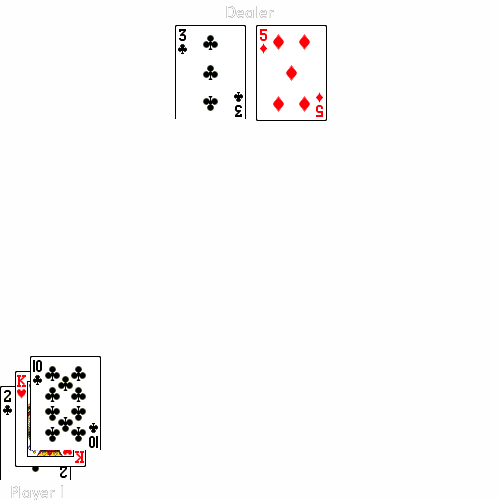
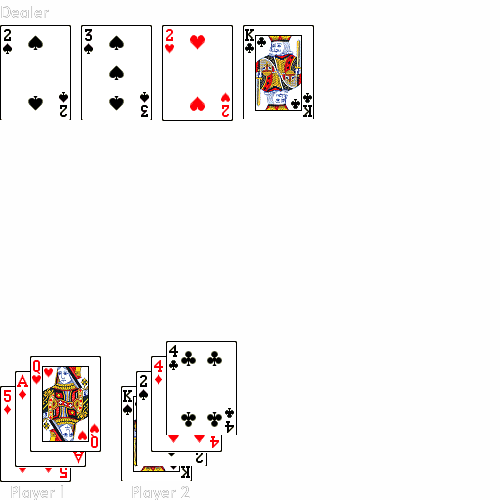
Fixed some issues in blackjack.py and updated main

diff --git a/blackjack.py b/blackjack.py
@@ -1,4 +1,3 @@
-
 import time
 import random
 import discord
@@ -66,6 +65,9 @@ game_controls = {
     "doubledown" : "⏬",
     "quit"       : "⏹",
     "playagain"  : "🔁",
+    "join"       : "▶",
+    "continue"   : "✅",
+    "checkbank"  : "🏧",
     25           : "⚪",
     50           : "🔵",
     100          : "🟤",
@@ -89,6 +91,7 @@ class Player:
         self.bStay = False
         self.val = 0
         self.bet = 0
+        self.userid = ""
 
 
     def randomCard(self):
@@ -110,6 +113,7 @@ class Player:
         for card in hand:
             if "Ace" in card:
                 aces += 1
+                self.val += 11
             elif "2" in card:
                 self.val += 2
             elif "3" in card:
@@ -129,12 +133,8 @@ class Player:
             else:
                 self.val += 10
         
-        while aces > 0:
-            if self.val <= 10:
-                self.val += 11
-            else:
-                self.val += 1
-            
+        while aces > 0 and self.val > 21:
+            self.val -= 10
             aces -= 1
 
         if self.val > 21:
@@ -142,10 +142,48 @@ class Player:
         elif self.val == 21:
             self.bBlkJak = True
 
-async def startGame(bot, ctx):
+async def startGame(bot, ctx, arg):
     im = Image.new('RGBA',(500,500), (0,0,0,1))
-    p1 = Player()
+    p  = []
+    i = int(arg)
+
+    while i > 0:
+        p.append(Player())
+        i -=1
+    
+    if p == []:
+        p.append(Player())
+
+    if len(p) != 1:
+        msg = await ctx.send("If you would like to join the game press the ▶ button (exculding " + str(ctx.author.name) + ")")
+        await msg.add_reaction(game_controls["join"])
+        await msg.add_reaction(game_controls["continue"])
+        p[0].userid = str(ctx.author.id)
+
+        i = 1
+        while p[len(p) - 1].userid  == "":
+            reaction, user = await bot.wait_for('reaction_add', timeout=60.0)
+
+            if reaction.emoji == game_controls["join"] and user.bot == False and str(user.id) != p[0].userid:
+                p[i].userid = str(user.id)
+                i += 1
+            elif reaction.emoji == game_controls["continue"] and user.bot == False:
+                rm = []
+                for player in p:
+                    if player.userid == "":
+                        rm.append(p.index(player))
+
+                rm.reverse()
+
+                for index in rm:
+                    del p[index]
+
+                break
+
     dealer = Player()
+
+    with open("users.json", "r") as f:
+        users = json.load(f)
 
     msg = await ctx.send("""To place a bet refer to this table:
                     \n⚪ = $25
@@ -158,64 +196,108 @@ async def startGame(bot, ctx):
                     \n🔴 = $5000
                     \n⚫ = $10000
                     \n⬜ = 50% of bank
-                    \n⬛ = 100% of bank\n\n"""
-                   )
+                    \n⬛ = 100% of bank
+                    \n🏧   to check bank\n\n""")
+
+    
 
     for key in game_controls:
         if (type(key) == float or type(key) == int):
             await msg.add_reaction(game_controls[key])
+
+    await msg.add_reaction(game_controls["checkbank"])
     
     while True:
         reaction, user = await bot.wait_for('reaction_add', timeout=60.0)
-        if (user.bot == False): 
-            bet = get_key(reaction.emoji)
-            break
+        i = 0
+        if reaction.emoji == "🏧" and user.bot == False:
+            await ctx.send(user.name + "'s Current Bank: $ " + str(users[str(user.id)]["money"]))
+        elif (user.bot == False): 
+            for player in p:
+                if str(user.id) == player.userid:
+                    player.bet = get_key(reaction.emoji)
+                    player.bet = place_bet(player.bet, user)
+            
+            for player in p:
+                if player.bet != 0:
+                    i += 1
+
+            if i >= len(p):
+                break
     
-    bet = place_bet(bet, user)
-    firstHand(p1, dealer, im)
+    hidden_card = firstHand(p, dealer, im)
 
     msg = await ctx.send(file=discord.File('Content/gamestate.png'))
     await printControls(msg)
 
-    while (p1.bBlkJak == False and p1.bBust == False and p1.bStay == False):
-        try:
-            reaction, user = await bot.wait_for('reaction_add', timeout=60.0)
 
-            if reaction.emoji == game_controls["hit"] and user.bot == False:
-                hit(p1, dealer, "p1")
-                await msg.delete()
-                msg = await ctx.send(file=discord.File('Content/gamestate.png'))
-                await printControls(msg)
-            elif reaction.emoji == game_controls["stay"] and user.bot == False:
-                stay(p1)
-            elif reaction.emoji == game_controls["doubledown"] and user.bot == False:
-                place_bet(bet, user)
-                hit(p1, dealer, "p1")
-                bet += bet
-                stay(p1)
-        except:
-            stay(p1)
+    #Main black jack player loop, allows the player to hit, stay or double down until they bust
+    for player in p:
+        while (p1.bBlkJak == False and player.bBust == False and player.bStay == False):
+            try:
+                await ctx.send("Player " + str(p.index(player) + 1) +  " Turn")
+                reaction, user = await bot.wait_for('reaction_add', timeout=60.0)
 
-    while(dealer.bBlkJak == False and dealer.bBust == False and dealer.val < 17 and p1.bBust != True):
-        hit(p1, dealer, "dealer")
+                if user.bot == False and str(user.id) == player.userid:
+                    if reaction.emoji == game_controls["hit"]:
+                        hit(player, dealer, p.index(player))
+                        await msg.delete()
+                        msg = await ctx.send(file=discord.File('Content/gamestate.png'))
+                        await printControls(msg)
+                    elif reaction.emoji == game_controls["stay"]:
+                        stay(player)
+                    elif reaction.emoji == game_controls["doubledown"]:
+                        temp = player.bet
+                        player.bet = place_bet(player.bet, user)
+                        hit(player, dealer, p.index(player))
+                        await msg.delete()
+                        msg = await ctx.send(file=discord.File('Content/gamestate.png'))
+                        player.bet += temp + player.bet
+                        stay(player)
+                elif user.bot == False and str(user.id) != player.userid:
+                     await ctx.send("You are not player " + str(p.index(player) + 1))
+            except:
+                stay(player)
+    
+    #Reveal hidden card and place it over hidden card
+    await msg.delete()
+    im = Image.open('Content/gamestate.png')
+    im2 = Image.open('Content/Cards/' + hidden_card)
+    Y = 25
+    X = 81
+    im.paste(im2.copy(), (X, Y))
+    im.save("Content/gamestate.png")
+    im.close()
+    im2.close()
+    msg = await ctx.send(file=discord.File('Content/gamestate.png'))
+    time.sleep(3)
+
+    #Main dealer loop, the dealer draws to 17 minimum or until they bust
+    while(dealer.bBlkJak == False and dealer.bBust == False and dealer.val < 17 ):
+        hit(p[0], dealer, "dealer")
         await msg.delete()
         msg = await ctx.send(file=discord.File('Content/gamestate.png'))
         time.sleep(5)
 
-    if ((p1.bBlkJak == True and dealer.bBlkJak != False) or 
-        (p1.val > dealer.val and p1.bBust == False)):
-        await winnings(bet, user, ctx)
-    elif p1.val == dealer.val:
-        bet /= 2
-        await winnings(bet, user, ctx)
-    else:
-        bet = 0
-        await winnings(bet, user, ctx)
+
+    #determine whether or not you won your bet and what they pay out will be
+    for player in p:
+        if ((player.bBlkJak == True and dealer.bBlkJak != False) or 
+            (player.val > dealer.val and player.bBust == False) or (dealer.bBust == True and player.bBust == False)):
+            await winnings(player.bet, user, ctx)
+        elif player.val == dealer.val:
+            player.bet /= 2
+            await winnings(player.bet, user, ctx)
+        else:
+            player.bet = 0
+            await winnings(player.bet, user, ctx)
     
 
 
     await msg.add_reaction(game_controls["playagain"])
     await msg.add_reaction(game_controls["quit"])
+
+    p[0].cardsDrawn = [];
 
     try:
         while True:
@@ -229,17 +311,17 @@ async def startGame(bot, ctx):
     except:
         await ctx.send("Thanks for Playing")
 
-def hit(p1, dealer, who):
+def hit(p, dealer, who):
     im = Image.open('Content/gamestate.png')
 
-    if who == "p1":
-        p1.randomCard()
-        adjust = (len(p1.hand) - 1)
-        card = p1.hand[adjust]
+    if who != "dealer":
+        p.randomCard()
+        adjust = (len(p.hand) - 1)
+        card = p.hand[adjust]
 
         im2 = Image.open('Content/Cards/' + card)
         Y = 386 - (adjust  * 15)
-        X = adjust * 15
+        X = who * 121 + adjust * 15
         im.paste(im2.copy(), (X, Y))
     else:
         dealer.randomCard()
@@ -248,10 +330,11 @@ def hit(p1, dealer, who):
 
         im2 = Image.open('Content/Cards/' + card)
         Y = 25
-        X = 175 + dealer.hand.index(card) * 81
+        X = dealer.hand.index(card) * 81
         im.paste(im2.copy(), (X, Y))
 
     im.save("Content/gamestate.png")
+    im.close()
     im2.close()
 
 def stay(player):
@@ -262,33 +345,50 @@ async def printControls(msg):
     await msg.add_reaction(game_controls["stay"])
     await msg.add_reaction(game_controls["doubledown"])
 
-def firstHand(p1, dealer, im):
-    p1.randomCard()
+def firstHand(p, dealer, im):
+
+    for player in p:
+        player.randomCard()
+
     dealer.randomCard()
-    p1.randomCard()
+
+    for player in p:
+        player.randomCard()
+
     dealer.randomCard()
+    hidden_card = dealer.hand[1]
 
-    for card in p1.hand:
-        im2 = Image.open('Content/Cards/' + card)
-        Y = 386 - (p1.hand.index(card) * 15)
-        X = p1.hand.index(card) * 15
-        im.paste(im2.copy(), (X, Y))
-        im2.close()
+    for player in p:
+        for card in player.hand:
+            im2 = Image.open('Content/Cards/' + card)
+            Y = 386 - (player.hand.index(card) * 15)
+            X = p.index(player) * 121 + player.hand.index(card) * 15
+            im.paste(im2.copy(), (X, Y))
+            im2.close()
 
+    im2 = Image.open('Content/Cards/' + card)
+    Y = 25
+    X = 0
+    im.paste(im2.copy(), (X, Y))
+    im2.close()
 
-    for card in dealer.hand:
-        im2 = Image.open('Content/Cards/' + card)
-        Y = 25
-        X = 175 + dealer.hand.index(card) * 81
-        im.paste(im2.copy(), (X, Y))
-        im2.close()
+    im2 = Image.open('Content/Cards/HiddenCard.png')
+    Y = 25
+    X = 81
+    im.paste(im2.copy(), (X, Y))
+    im2.close()
 
     draw = ImageDraw.Draw(im)
     font = ImageFont.truetype("Content/alata-regular.ttf", 16)
-    draw.text((225, 0),"Dealer",(255,255,255),font=font)
-    draw.text((10, 480),"Player 1",(255,255,255),font=font)
+    draw.text((0, 0),"Dealer",(255,255,255),font=font)
+    
+    for player in p:
+        draw.text((10 + p.index(player) * 121, 480),"Player " + str(p.index(player) + 1),(255,255,255),font=font)
+
     im.save("Content/gamestate.png")
     im.close()
+
+    return hidden_card
 
 def get_key(val):
     for key, value in game_controls.items():

diff --git a/main.py b/main.py
@@ -68,7 +68,7 @@ async def insult(ctx, *args):
             await joinChat(ctx, 'general')
 
             if ((target in members) and (len(args) != 2)):
-                await speak(ctx.guild, (target + ' is Big Gay'), ctx)
+                await speak(ctx.guild, (target + ' is Stupid'), ctx)
             else:
                 await speak(ctx.guild, args[1], ctx)
             
@@ -93,7 +93,7 @@ async def E (ctx):
 
 @bot.command()
 async def BJ(ctx, *arg):
-    await blackjack.startGame(bot, ctx)
+    await blackjack.startGame(bot, ctx, arg[0])
 
 async def getMembers(ctx):
     memberList = []
